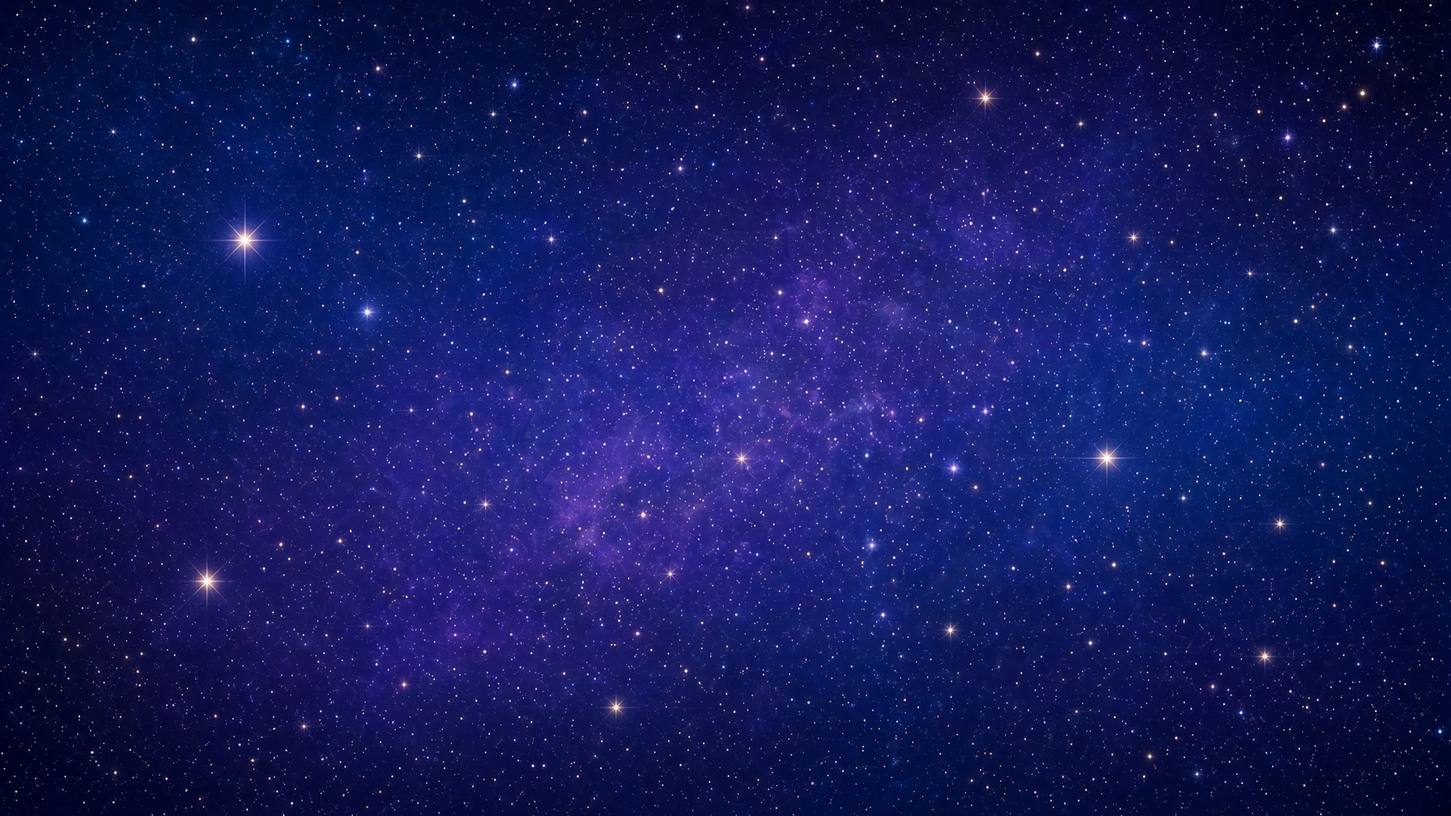
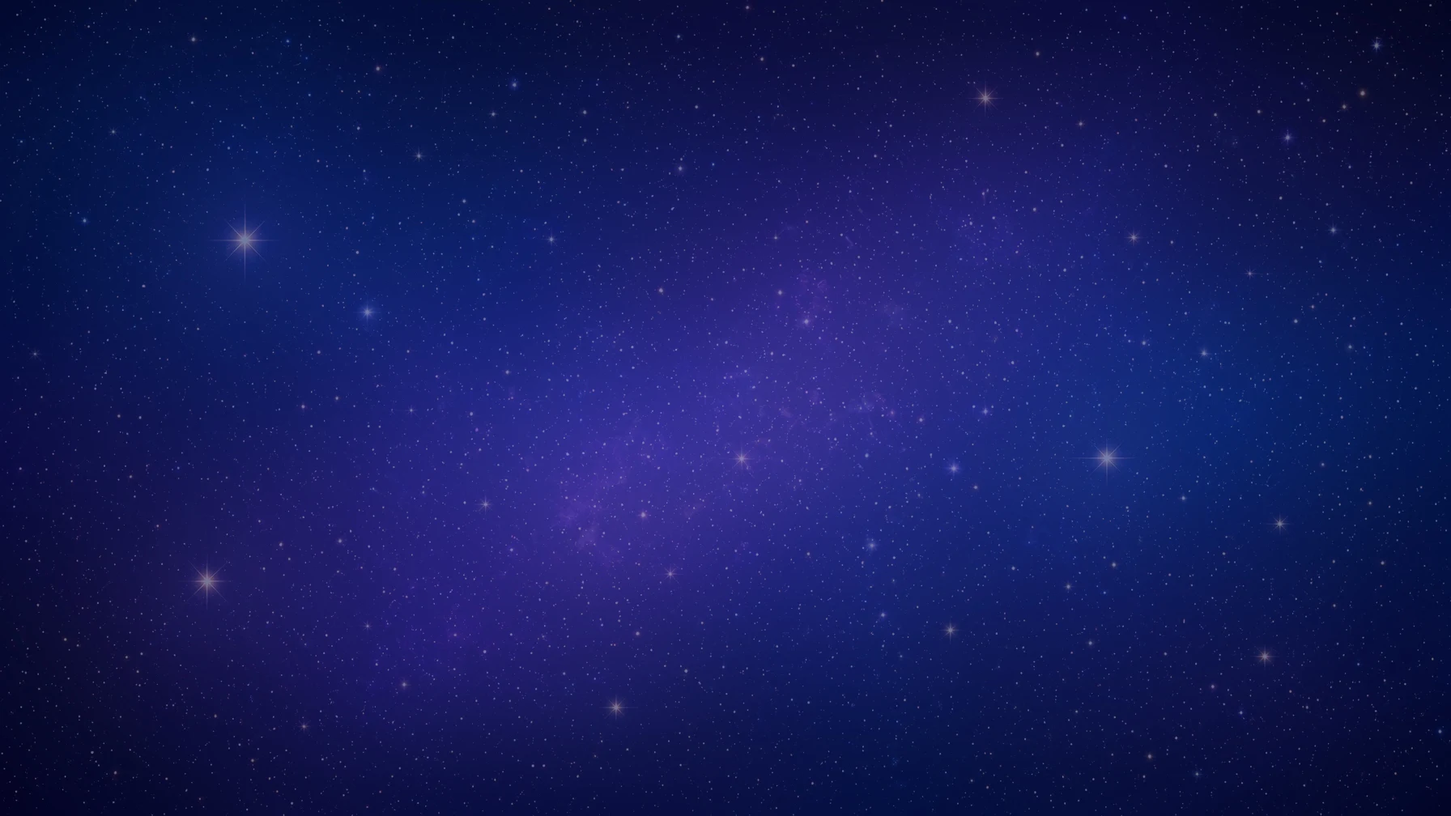
Update selection buttons, free-order touch controls, star timing and background

diff --git a/Engine/select-screen.js b/Engine/select-screen.js
@@ -3,38 +3,41 @@ export function createSelectScreen(parent,api){
  const view=document.createElement('section');view.id='palaceSelection';view.hidden=true;view.style.cssText='position:absolute;inset:0;background:#05050d;z-index:2';parent.appendChild(view);
  const canvas=document.createElement('canvas');canvas.style.cssText='position:absolute;inset:0;width:100%;height:100%;z-index:1;pointer-events:none';view.appendChild(canvas);const context=canvas.getContext('2d');
  const controls=document.createElement('div');controls.style.cssText='position:absolute;width:1280px;height:720px;transform-origin:top left;z-index:2';view.appendChild(controls);
- const phases=['p1','p2','p1hardware','p2hardware','p1command','p2command','stage'],hardwareValues=['snes','3do','saturn'],commandValues=['normal','auto'];
- let data,assets,stage3D,phase='p1',targetMode='vs',choices=['SailorVenus','SailorVenus'],stage='training',cursor=16,hardware=['snes','snes'],command=['normal','normal'],confirmed=new Set(),ticks=0,lastTime;
- const stageReady=(api.createStage?Promise.resolve({createSelectStage:api.createStage}):import('../Stage/Select/select-stage.js?v=select3d4')).then(async module=>{const candidate=module.createSelectStage(view);if(!candidate)return;await candidate.ready;stage3D=candidate}).catch(error=>console.error('Selection 3D stage',error));
- async function loadEntries(value){if(value.file){const image=new Image();image.src=assetUrl('./'+value.file);await image.decode();return {...value,image}}const result=Array.isArray(value)?[]:{};for(const key of Object.keys(value))result[key]=await loadEntries(value[key]);return result}
- const ready=Promise.all(['Data/Select/select-screen.json','Data/Select/selection-assets.json'].map(path=>fetch(assetUrl('./'+path+'?v=selection2')).then(response=>{if(!response.ok)throw Error('Selection data '+path);return response.json()}))).then(async ([config,manifest])=>{data={...config,background:await loadEntries(config.background)};assets=await loadEntries(manifest);await stageReady;render()});
+ const hardwareValues=['3do','snes','saturn'],commandValues=['normal','auto'];
+ let data,assets,stage3D,phase='p1',targetMode='vs',choices=['SailorVenus','SailorVenus'],stage='training',cursor=16,hardware=['3do','3do'],command=['normal','normal'],confirmed=new Set(),ticks=0,lastTime;
+ const stageReady=(api.createStage?Promise.resolve({createSelectStage:api.createStage}):import('../Stage/Select/select-stage.js?v=selection5')).then(async module=>{const candidate=module.createSelectStage(view);if(!candidate)return;await candidate.ready;stage3D=candidate}).catch(error=>console.error('Selection 3D stage',error));
+ async function loadEntries(value){if(value.file){const image=new Image();image.src=assetUrl('./'+value.file+'?v=selection5');await image.decode();return {...value,image}}const result=Array.isArray(value)?[]:{};for(const key of Object.keys(value))result[key]=await loadEntries(value[key]);return result}
+ const ready=Promise.all(['Data/Select/select-screen.json','Data/Select/selection-assets.json'].map(path=>fetch(assetUrl('./'+path+'?v=selection5')).then(response=>{if(!response.ok)throw Error('Selection data '+path);return response.json()}))).then(async ([config,manifest])=>{data={...config,background:await loadEntries(config.background)};assets=await loadEntries(manifest);await stageReady;render()});
  function player(){return phase.startsWith('p2')?1:0}
- function frame(key){return confirmed.has(key)?1:phase===key?Math.floor(ticks/4)%2:0}
- function sprite(entry,offsetX=0,offsetY=0){if(entry)context.drawImage(entry.image,offsetX+entry.x,offsetY+entry.y,entry.w,entry.h)}
+ function selectPlayer(target){phase='p'+(target+1);cursor=data.cells.findIndex(cell=>cell.id===choices[target]&&cell.available);render()}
  function discPosition(entry){if(!stage3D)return entry;const focal=360/Math.tan(Math.PI/12),scale=Math.sqrt((8*8-1.4*1.4)/(7.2*7.2-1.4*1.4)),previousY=360-.2/8*focal,nextY=360-.15/7.2*focal;return {x:640+(entry.x-640)*scale,y:nextY+(entry.y-previousY)*scale,w:entry.w*scale,h:entry.h*scale}}
  function draw(){if(!assets||view.hidden)return;canvas.width=Math.round(innerWidth*devicePixelRatio);canvas.height=Math.round(innerHeight*devicePixelRatio);const fit=Math.min(innerWidth/1280,innerHeight/720);context.setTransform(devicePixelRatio,0,0,devicePixelRatio,0,0);context.clearRect(0,0,innerWidth,innerHeight);if(!stage3D){context.fillStyle='#05050d';context.fillRect(0,0,innerWidth,innerHeight)}context.translate((innerWidth-1280*fit)/2,(innerHeight-720*fit)/2);context.scale(fit,fit);
   for(const key of stage3D?['2200,0']:['2000,0','2001,0','2200,0']){const layer=data.background.find(entry=>entry.key===key);if(layer)context.drawImage(layer.image,640-layer.axisX,-layer.axisY)}
   for(const [identifier,entry] of Object.entries(assets.characters)){if(entry.disc){context.save();context.globalAlpha=data.cells.some(cell=>cell.id===identifier&&cell.available)?1:.4;const position=discPosition(entry.disc);context.drawImage(entry.disc.image,position.x,position.y,position.w,position.h);context.restore()}}
   stage3D?.drawSurfaceGlares(context);
-  for(const target of [0,1]){const entry=assets.characters[choices[target]],position=data.settings['p'+(target+1)+'.face.offset'].split(',').map(Number),anchor=position[0];sprite(entry.portrait,anchor-640,position[1]);sprite(entry.name,anchor-640);
-   for(const [kind,value,column] of [['hardware',hardware[target],0],['command',command[target],1]]){const frames=assets.modes[value],icon=frames[frame('p'+(target+1)+kind)],width=Math.max(...frames.map(item=>item.w))*.75;context.drawImage(icon.image,anchor-125+column*135+(width-icon.w*.75)/2,525,icon.w*.75,icon.h*.75)}
-  }
-  const title=assets.stages[({training:'Training',moon:'MPalace',mercury:'Library',mars:'Shrine',pluto:'SDoor',swatheshia:'SThrone'}[stage])];if(phase==='stage'&&title)sprite(title[String(frame('stage'))]||title['0']);
+  for(const target of [0,1]){const entry=assets.characters[choices[target]],position=data.settings['p'+(target+1)+'.face.offset'].split(',').map(Number),anchor=position[0];for(const kind of ['portrait','name']){const item=entry[kind];if(item)context.drawImage(item.image,anchor-640+item.x,item.y+(kind==='portrait'?position[1]:0),item.w,item.h)}}
+  const title=assets.stages[({training:'Training',moon:'MPalace',mercury:'Library',mars:'Shrine',pluto:'SDoor',swatheshia:'SThrone'}[stage])];if(phase==='stage'&&title){const item=title[String(Math.floor(ticks/4)%2)]||title['0'];context.drawImage(item.image,item.x,item.y,item.w,item.h)}
  }
  function button(label,handler,style=''){const element=document.createElement('button');element.type='button';element.textContent=label;element.style.cssText='position:absolute;border:1px solid #e4ca81;background:#0a163be8;color:#fff;border-radius:8px;font:18px system-ui;padding:6px;'+style;element.addEventListener('click',handler);controls.appendChild(element);return element}
+ function artworkButton(key,label,handler,left,top){const entry=assets.buttons[key],width=entry.w*.75,height=entry.h*.75;const element=button('',handler,'left:'+(left-width/2)+'px;top:'+top+'px;width:'+width+'px;height:'+height+'px;background:transparent;border:0;padding:0;touch-action:manipulation;transition:transform 80ms');element.setAttribute('aria-label',label);const image=document.createElement('img');image.src=entry.image.src;image.alt=label;image.draggable=false;image.style.cssText='width:100%;height:100%;pointer-events:none';element.appendChild(image);element.addEventListener('pointerdown',event=>{if(element.disabled)return;element.style.transform='scale(.9)';element.setPointerCapture(event.pointerId)});for(const event of ['pointerup','pointercancel','lostpointercapture','blur'])element.addEventListener(event,()=>{element.style.transform='scale(1)'});return element}
  function resize(){const fit=Math.min(innerWidth/1280,innerHeight/720);Object.assign(controls.style,{left:(innerWidth-1280*fit)/2+'px',top:(innerHeight-720*fit)/2+'px',transform:'scale('+fit+')'});draw()}
- function confirm(){if(!assets)return;if(phase==='p1'||phase==='p2'){const cell=data.cells[cursor];if(!cell?.available)return;choices[player()]=cell.id}confirmed.add(phase);if(phase==='stage'){render();api.confirm(targetMode,{players:[...choices],stage,hardware:[...hardware],command:[...command]});return}phase=phases[phases.indexOf(phase)+1];cursor=data.cells.findIndex(cell=>cell.id===choices[player()]&&cell.available);ticks=0;render()}
- function back(){const index=phases.indexOf(phase);if(!index){hide();api.back();return}phase=phases[index-1];for(const key of phases.slice(index-1))confirmed.delete(key);cursor=data.cells.findIndex(cell=>cell.id===choices[player()]&&cell.available);ticks=0;render()}
- function choose(value){if(phase.endsWith('hardware'))hardware[player()]=value;else if(phase.endsWith('command'))command[player()]=value;else if(phase==='stage')stage=value;else{cursor=value;choices[player()]=data.cells[value].id}ticks=0;render()}
- function render(){if(view.hidden)return;controls.replaceChildren();if(!assets){button('Loading…',()=>{},'left:520px;top:320px;width:240px');return}const title=document.createElement('h2');title.textContent=targetMode.toUpperCase()+' · '+phase.toUpperCase().replace(/(HARDWARE|COMMAND)/,' $1');title.style.cssText='position:absolute;top:75px;left:400px;width:480px;margin:0;text-align:center;color:#fff;font:24px Georgia';controls.appendChild(title);
-  if(phase==='p1'||phase==='p2'){for(const [index,cell] of data.cells.entries()){const sourceDisc=assets.characters[cell.id]?.disc;if(!sourceDisc)continue;const disc=discPosition(sourceDisc);const element=button('',()=>choose(index),'left:'+disc.x+'px;top:'+disc.y+'px;width:'+disc.w+'px;height:'+disc.h+'px;background:transparent;padding:0');element.dataset.character=cell.id;element.disabled=!cell.available;element.title=cell.id+(cell.available?'':' · 未開放');element.style.border=index===cursor?'2px solid #fff6a3':'none'}}
-  else if(phase.endsWith('hardware')||phase.endsWith('command')){const values=phase.endsWith('hardware')?hardwareValues:commandValues;values.forEach((value,index)=>{const element=button(value.toUpperCase(),()=>choose(value),'left:'+(455+index*125)+'px;top:575px;width:120px');element.dataset.mode=value})}
-  else data.stages.forEach((entry,index)=>{const element=button(entry.name,()=>choose(entry.id),'left:480px;top:'+(180+index*57)+'px;width:320px;height:46px');element.dataset.stage=entry.id;element.disabled=!entry.available});
-  button(phase==='stage'?'Start Fight':'Confirm',confirm,'left:660px;top:625px;width:130px').id='confirmSelection';button('Back',back,'left:495px;top:625px;width:130px').id='backSelection';resize();
+ function next(){if(targetMode!=='training'&&confirmed.size<2)return;phase='stage';ticks=0;render()}
+ function touchConfirm(target){if(confirmed.has(target))confirmed.delete(target);else confirmed.add(target);render()}
+ function confirm(){if(!assets)return;if(phase==='stage'){api.confirm(targetMode,{players:[...choices],stage,hardware:[...hardware],command:[...command]});return}const target=player();if(phase.endsWith('hardware'))phase='p'+(target+1)+'command';else if(phase.endsWith('command')){if(targetMode==='training'){next();return}confirmed.add(target);if(confirmed.size===2){next();return}selectPlayer(1-target);return}else phase='p'+(target+1)+'hardware';ticks=0;render()}
+ function back(){if(phase==='stage'){confirmed.delete(targetMode==='training'?0:1);phase=targetMode==='training'?'p1command':'p2command'}else if(phase.endsWith('command'))phase='p'+(player()+1)+'hardware';else if(phase.endsWith('hardware'))phase='p'+(player()+1);else if(player()===1){confirmed.delete(0);phase='p1command'}else{hide();api.back();return}ticks=0;render()}
+ function choose(value,target=player(),kind){if(confirmed.has(target)&&phase!=='stage')return;if(kind==='hardware'||(!kind&&phase.endsWith('hardware')))hardware[target]=value;else if(kind==='command'||(!kind&&phase.endsWith('command')))command[target]=value;else if(phase==='stage')stage=value;else{if(!data.cells[value]?.available)return;cursor=value;choices[target]=data.cells[value].id}ticks=0;render()}
+ function cycle(target,kind){const values=kind==='hardware'?hardwareValues:commandValues,current=kind==='hardware'?hardware[target]:command[target];choose(values[(values.indexOf(current)+1)%values.length],target,kind)}
+ function render(){if(view.hidden)return;controls.replaceChildren();if(!assets){button('Loading…',()=>{},'left:520px;top:320px;width:240px');return}
+  if(phase!=='stage'){
+   for(const target of targetMode==='training'?[0]:[0,1]){const anchor=Number(data.settings['p'+(target+1)+'.face.offset'].split(',')[0]);const selector=button('P'+(target+1),()=>selectPlayer(target),'left:'+(anchor-25)+'px;top:95px;width:50px');selector.dataset.player=String(target);selector.style.opacity=player()===target?'1':'.55';for(const [kind,key,column] of [['hardware',hardware[target],0],['command',command[target],1]]){const element=artworkButton(key,'P'+(target+1)+' '+kind,()=>cycle(target,kind),anchor-110+column*220,525);element.id=kind+'Selection'+target;element.disabled=confirmed.has(target);element.style.filter=confirmed.has(target)?'grayscale(1)':phase==='p'+(target+1)+kind?'drop-shadow(0 0 8px white)':'none'}const element=artworkButton(targetMode==='training'?'next':'confirm','P'+(target+1)+' '+(targetMode==='training'?'Next':'Confirm'),()=>targetMode==='training'?next():touchConfirm(target),anchor,595);element.id='confirmSelection'+target;element.style.filter=confirmed.has(target)?'grayscale(1)':'none';element.setAttribute('aria-pressed',String(confirmed.has(target)))}
+   for(const [index,cell] of data.cells.entries()){const sourceDisc=assets.characters[cell.id]?.disc;if(!sourceDisc)continue;const disc=discPosition(sourceDisc);const element=button('',()=>choose(index,player(),'character'),'left:'+disc.x+'px;top:'+disc.y+'px;width:'+disc.w+'px;height:'+disc.h+'px;background:transparent;padding:0');element.dataset.character=cell.id;element.disabled=!cell.available||confirmed.has(player());element.title=cell.id+(cell.available?'':' · 未開放');element.style.border=index===cursor?'2px solid #fff6a3':'none'}
+   if(targetMode!=='training'){const element=artworkButton('next','Next',next,640,625);element.id='nextSelection';element.disabled=confirmed.size<2;element.style.opacity=element.disabled?'.45':'1'}
+  }else{data.stages.forEach((entry,index)=>{const element=button(entry.name,()=>choose(entry.id),'left:480px;top:'+(180+index*57)+'px;width:320px;height:46px');element.dataset.stage=entry.id;element.disabled=!entry.available});artworkButton('next','Start Fight',confirm,710,610).id='startSelection'}
+  button('Back',back,'left:490px;top:665px;width:100px').id='backSelection';resize();
  }
- function show(mode){targetMode=mode;phase='p1';confirmed.clear();hardware=['snes','snes'];command=['normal','normal'];choices=['SailorVenus','SailorVenus'];stage='training';cursor=data?.cells.findIndex(entry=>entry.available)??16;ticks=0;lastTime=undefined;view.hidden=false;stage3D?.setVisible(true);render()}
+ function show(mode){targetMode=mode;phase='p1';confirmed.clear();hardware=['3do','3do'];command=['normal','normal'];choices=['SailorVenus','SailorVenus'];stage='training';cursor=data?.cells.findIndex(entry=>entry.available)??16;ticks=0;lastTime=undefined;view.hidden=false;stage3D?.setVisible(true);render()}
  function hide(){view.hidden=true;lastTime=undefined;stage3D?.setVisible(false)}
- function handleKey(event){if(view.hidden)return false;if(event.code==='Escape'){if(!event.repeat)back();return true}if(['Enter','KeyZ','Numpad0'].includes(event.code)){if(!event.repeat)confirm();return true}if(['ArrowLeft','ArrowRight','ArrowUp','ArrowDown','Numpad4','Numpad6','Numpad8','Numpad5'].includes(event.code)){if(assets){const direction=['ArrowLeft','ArrowUp','Numpad4','Numpad8'].includes(event.code)?-1:1,values=phase==='stage'?data.stages.filter(entry=>entry.available).map(entry=>entry.id):phase.endsWith('hardware')?hardwareValues:phase.endsWith('command')?commandValues:data.cells.map((entry,index)=>entry.available?index:-1).filter(index=>index>=0),current=phase==='stage'?stage:phase.endsWith('hardware')?hardware[player()]:phase.endsWith('command')?command[player()]:cursor;choose(values[(values.indexOf(current)+direction+values.length)%values.length])}return true}return false}
+ function handleKey(event){if(view.hidden)return false;if(['Escape','KeyX','KeyS','Numpad2','NumpadDecimal'].includes(event.code)){if(!event.repeat)back();return true}if(['Enter','KeyZ','KeyA','Numpad1','Numpad0'].includes(event.code)){if(!event.repeat)confirm();return true}if(['ArrowLeft','ArrowRight','ArrowUp','ArrowDown','Numpad4','Numpad6','Numpad8','Numpad5'].includes(event.code)){if(assets){const modePhase=phase.endsWith('hardware')||phase.endsWith('command');if(modePhase&&!['ArrowUp','ArrowDown','Numpad8','Numpad5'].includes(event.code))return true;const direction=['ArrowLeft','ArrowUp','Numpad4','Numpad8'].includes(event.code)?-1:1,values=phase==='stage'?data.stages.filter(entry=>entry.available).map(entry=>entry.id):phase.endsWith('hardware')?hardwareValues:phase.endsWith('command')?commandValues:data.cells.map((entry,index)=>entry.available?index:-1).filter(index=>index>=0),current=phase==='stage'?stage:phase.endsWith('hardware')?hardware[player()]:phase.endsWith('command')?command[player()]:cursor;choose(values[(values.indexOf(current)+direction+values.length)%values.length])}return true}return false}
  function animate(time){if(!view.hidden){const dt=lastTime===undefined?0:Math.min((time-lastTime)/1000,.05);ticks+=dt*60;lastTime=time;stage3D?.setVisible(true);stage3D?.render(dt);draw()}requestAnimationFrame(animate)}requestAnimationFrame(animate);window.addEventListener('resize',resize);
- return {ready,show,hide,handleKey,draw,snapshot:()=>({phase,mode:targetMode,players:[...choices],hardware:[...hardware],command:[...command],stage,visible:!view.hidden,effects:stage3D?.snapshot()})};
+ return {ready,show,hide,handleKey,draw,snapshot:()=>({phase,mode:targetMode,players:[...choices],hardware:[...hardware],command:[...command],confirmed:[...confirmed],stage,visible:!view.hidden,effects:stage3D?.snapshot()})};
 }

diff --git a/Stage/Select/select-stage.js b/Stage/Select/select-stage.js
@@ -1,7 +1,7 @@
 import * as THREE from 'three';
 import {GLTFLoader} from 'three/addons/loaders/GLTFLoader.js';
 import {assetUrl} from '../../Engine/asset-paths.js?v=02362';
-import {effectPulse} from './select-effects-timing.js?v=select3d4';
+import {effectPulse} from './select-effects-timing.js?v=selection5';
 
 export function createSelectStage(parent){
  const renderer=new THREE.WebGLRenderer({antialias:true,powerPreference:'low-power'});renderer.setPixelRatio(Math.min(devicePixelRatio,1.5));renderer.outputColorSpace=THREE.SRGBColorSpace;renderer.domElement.id='selectStage3D';renderer.domElement.style.cssText='position:absolute;pointer-events:none';parent.appendChild(renderer.domElement);
@@ -25,7 +25,7 @@ export function createSelectStage(parent){
   const haloMaterial=new THREE.ShaderMaterial({uniforms:material.uniforms,vertexShader:material.vertexShader.replace('(1.0+(1.0-pointKind)*impact*1.5)','(1.0+impact*2.0)').replace('gl_PointSize=pointSize','gl_PointSize=2.4*pointSize'),fragmentShader:'varying float brightness;varying float impactLevel;void main(){float radius=length(gl_PointCoord-0.5);float halo=exp(-radius*radius*22.0)*(1.0-smoothstep(0.35,0.50,radius));gl_FragColor=vec4(vec3(0.48,0.83,1.0),halo*brightness*0.32*(1.0+impactLevel*1.6));}',transparent:true,blending:THREE.AdditiveBlending,depthWrite:false,toneMapped:false});particleHalos=new THREE.Points(geometry,haloMaterial);particleHalos.frustumCulled=false;particleHalos.name='SelectionAirborneLightHalos';particleHalos.renderOrder=6;particles.renderOrder=7;scene.add(particleHalos);
  }
  function resize(){if(!camera)return;const fit=Math.min(innerWidth/1280,innerHeight/720),width=1280*fit,height=720*fit;renderer.setSize(width,height,false);Object.assign(renderer.domElement.style,{width:width+'px',height:height+'px',left:(innerWidth-width)/2+'px',top:(innerHeight-height)/2+'px'});camera.aspect=width/height;camera.updateProjectionMatrix();if(particles)particles.material.uniforms.viewportScale.value=fit}
- const ready=Promise.all([new THREE.TextureLoader().loadAsync(assetUrl('./Stage/Select/background.webp?v=select3d4')),fetch(assetUrl('./Stage/Select/select-stage.json?v=select3d4')).then(response=>{if(!response.ok)throw Error('Select stage settings');return response.json()}),fetch(assetUrl('./Stage/Select/Select.glb.gz?v=select3d4')).then(response=>{if(!response.ok)throw Error('Select stage model');return new Response(response.body.pipeThrough(new DecompressionStream('gzip'))).arrayBuffer()})]).then(async ([background,config,buffer])=>{background.colorSpace=THREE.SRGBColorSpace;scene.background=background;settings=config;camera=new THREE.PerspectiveCamera(config.fov,16/9,.01,1000);camera.position.fromArray(config.cameraPosition);const model=await new GLTFLoader().parseAsync(buffer,'./');scene.add(model.scene);sphere=model.scene.getObjectByName(config.target);if(!sphere)model.scene.traverse(node=>{if(node.userData.name===config.target)sphere=node});if(!sphere)throw Error('Selection Sphere.004 missing');model.scene.traverse(node=>{if(!node.isMesh)return;for(const material of Array.isArray(node.material)?node.material:[node.material]){if(/^sky/i.test(node.name))material.depthWrite=false;if(node===sphere)material.side=THREE.FrontSide}});mixer=new THREE.AnimationMixer(model.scene);for(const clip of model.animations)mixer.clipAction(clip).play();addEffects();resize();render(0)});
+ const ready=Promise.all([new THREE.TextureLoader().loadAsync(assetUrl('./Stage/Select/background.webp?v=selection5')),fetch(assetUrl('./Stage/Select/select-stage.json?v=selection5')).then(response=>{if(!response.ok)throw Error('Select stage settings');return response.json()}),fetch(assetUrl('./Stage/Select/Select.glb.gz?v=selection5')).then(response=>{if(!response.ok)throw Error('Select stage model');return new Response(response.body.pipeThrough(new DecompressionStream('gzip'))).arrayBuffer()})]).then(async ([background,config,buffer])=>{background.colorSpace=THREE.SRGBColorSpace;scene.background=background;settings=config;camera=new THREE.PerspectiveCamera(config.fov,16/9,.01,1000);camera.position.fromArray(config.cameraPosition);const model=await new GLTFLoader().parseAsync(buffer,'./');scene.add(model.scene);sphere=model.scene.getObjectByName(config.target);if(!sphere)model.scene.traverse(node=>{if(node.userData.name===config.target)sphere=node});if(!sphere)throw Error('Selection Sphere.004 missing');model.scene.traverse(node=>{if(!node.isMesh)return;for(const material of Array.isArray(node.material)?node.material:[node.material]){if(/^sky/i.test(node.name))material.depthWrite=false;if(node===sphere)material.side=THREE.FrontSide}});mixer=new THREE.AnimationMixer(model.scene);for(const clip of model.animations)mixer.clipAction(clip).play();addEffects();resize();render(0)});
  const center=new THREE.Vector3();
  function render(dt){if(!camera||!mixer)return;accumulator+=Math.max(0,dt);const steps=Math.floor((accumulator+1e-9)*30);if(!steps&&renderedFrames)return;const elapsed=steps/30;accumulator-=elapsed;time+=elapsed;mixer.update(elapsed);sphere.getWorldPosition(center);effects.position.copy(center);for(const mesh of [innerGlow,outerGlow,glare,...rearGlares]){mesh.quaternion.copy(camera.quaternion);mesh.material.uniforms.time.value=time}glare.material.uniforms.beamStrength.value=Array.from({length:7},(_,index)=>effectPulse(Math.round(time*60),index));rearGlares[0].material.uniforms.flareAlpha.value=effectPulse(Math.round(time*60),2,'star');rearGlares[0].position.x=1.12-20*(camera.position.z-center.z+.65)/(360/Math.tan(THREE.MathUtils.degToRad(settings.fov/2)));innerGlow.position.z=.12;innerGlow.renderOrder=10;outerGlow.position.z=.1;outerGlow.renderOrder=11;glare.position.z=-1.6;glare.renderOrder=5;glare.material.depthTest=false;particles.material.uniforms.time.value=time;renderer.render(scene,camera);renderedFrames++}
  function drawSurfaceGlares(context){if(!camera||!sphere)return;for(const flare of surfaceGlares){const point=center.clone().add(new THREE.Vector3(flare.x,flare.y,Math.sqrt(Math.max(0,1.4*1.4-flare.x*flare.x-flare.y*flare.y))+.04)).project(camera),x=(point.x+1)*640,y=(1-point.y)*360,pulse=effectPulse(Math.round(time*60),surfaceGlares.indexOf(flare),'star'),radius=flare.size/2;context.save();context.translate(x,y);context.globalAlpha=pulse;context.globalCompositeOperation='lighter';const halo=context.createRadialGradient(0,0,0,0,0,radius*.95);halo.addColorStop(0,'rgba(255,255,255,0.95)');halo.addColorStop(.12,'rgba(210,245,255,0.65)');halo.addColorStop(1,'rgba(150,225,255,0)');context.fillStyle=halo;context.fillRect(-radius,-radius,radius*2,radius*2);context.beginPath();for(let index=0;index<16;index++){const angle=index*Math.PI/8-Math.PI/2,length=index%2?radius*.055:radius*(index%4===0?1:.65),pointX=Math.cos(angle)*length,pointY=Math.sin(angle)*length;if(!index)context.moveTo(pointX,pointY);else context.lineTo(pointX,pointY)}context.closePath();context.fillStyle='rgba(235,250,255,0.9)';context.fill();context.restore()}}

diff --git a/Data/Logo/logo-intro.js b/Data/Logo/logo-intro.js
@@ -21,7 +21,7 @@ export function createLogoIntro(onFadeIn){
  });
  function finish(){if(finished)return;finished=true;cancelAnimationFrame(animationFrame);document.removeEventListener('visibilitychange',resetFrame);for(const entry of [...config.letters,...config.petals])entry.image.close();overlay.remove();resolveFinished()}
  function render(atTick){if(!config||finished)return;const width=Math.round(innerWidth*devicePixelRatio),height=Math.round(innerHeight*devicePixelRatio);if(overlay.width!==width||overlay.height!==height){overlay.width=width;overlay.height=height}context.setTransform(devicePixelRatio,0,0,devicePixelRatio,0,0);context.fillStyle='white';context.fillRect(0,0,innerWidth,innerHeight);const scale=Math.min(innerWidth/1280,innerHeight/720);context.translate((innerWidth-1280*scale)/2,(innerHeight-720*scale)/2);context.scale(scale,scale);
-  for(const [index,letter] of config.letters.entries()){const pose=logoLetterPose(atTick,index,config);if(!pose.alpha)continue;context.save();context.globalAlpha=pose.alpha;context.drawImage(letter.image,letter.x,letter.y+pose.y,letter.width*letter.scale,letter.height*letter.scale);context.restore()}
+  for(const [index,letter] of config.letters.entries()){const pose=logoLetterPose(atTick,index,config);if(!pose.alpha)continue;context.save();context.globalAlpha=pose.alpha;context.drawImage(letter.image,letter.x+(index===0?20:0),letter.y+pose.y,letter.width*letter.scale,letter.height*letter.scale);context.restore()}
   const frame=config.petalFrames.find(frame=>atTick>=frame.start&&atTick<frame.end);if(frame){const petals=config.petals.find(entry=>entry.item===frame.item);context.drawImage(petals.image,petals.x,petals.y)}
  }
  function resetFrame(){lastFrame=null}

diff --git a/index.html b/index.html
@@ -50,7 +50,7 @@ import {createFightHud} from './Engine/fight-hud-runtime.js?v=02362';
 import {createScoreRuntime} from './Engine/score-runtime.js?v=02362';
 import {createRoundFlow} from './Engine/round-flow-runtime.js?v=02362';
 import {createRoundView} from './Engine/round-flow-view.js?v=02362';
-import {createPalaceMenu} from './Engine/palace-menu.js?v=select3d4';
+import {createPalaceMenu} from './Engine/palace-menu.js?v=selection5';
 const fightHud=createFightHud();fightHud.ready.catch(error=>showRuntimeError(error));
 const timerMode=document.createElement('select');timerMode.id='timerMode';timerMode.title='Training timer';timerMode.innerHTML='<option value="infinite">Timer ∞</option><option value="99">Timer 99</option>';document.querySelector('#inputPanel').appendChild(timerMode);timerMode.addEventListener('change',()=>{fightHud.setMode(timerMode.value);timerMode.blur()});
 for(let seconds=15;seconds<99;seconds++){const option=document.createElement('option');option.value=String(seconds);option.textContent='Timer '+seconds;timerMode.appendChild(option)}

diff --git a/Stage/Select/select-effects-timing.js b/Stage/Select/select-effects-timing.js
@@ -1,9 +1,9 @@
 function randomValue(seed){const value=Math.sin(seed*12.9898+78.233)*43758.5453;return value-Math.floor(value)}
 export function effectPulse(tick,index,kind='beam'){
- const rise=kind==='beam'?6:4,fade=kind==='beam'?36:8;
+ const rise=kind==='beam'?6:8,fade=kind==='beam'?36:16;
  let remaining=Math.max(0,tick)+index*(kind==='beam'?17:7),cycle=0;
- while(true){const hold=kind==='beam'?90+Math.floor(randomValue(index*37+cycle*101)*91):12+Math.floor(randomValue(index*19+cycle*71)*19),duration=rise+fade+hold;
-  if(remaining<duration){if(remaining<rise)return remaining/rise;if(remaining<rise+fade)return 1-(remaining-rise)/fade;return 0}
+ while(true){const hold=90+Math.floor(randomValue(index*37+cycle*101)*91),peak=kind==='beam'?0:60+Math.floor(randomValue(index*19+cycle*71)*31),duration=rise+peak+fade+hold;
+  if(remaining<duration){if(remaining<rise)return remaining/rise;if(remaining<rise+peak)return 1;if(remaining<rise+peak+fade)return 1-(remaining-rise-peak)/fade;return 0}
   remaining-=duration;cycle++;
  }
 }

diff --git a/Engine/palace-menu.js b/Engine/palace-menu.js
@@ -1,7 +1,7 @@
 import {assetUrl} from './asset-paths.js?v=02362';
 import {createTitleStage} from '../Stage/Title/title-stage.js?v=02362-camera2';
-import {createLogoIntro} from '../Data/Logo/logo-intro.js?v=02362';
-import {createSelectScreen} from './select-screen.js?v=select3d4';
+import {createLogoIntro} from '../Data/Logo/logo-intro.js?v=selection5';
+import {createSelectScreen} from './select-screen.js?v=selection5';
 
 export function createPalaceMenu(api){
  const defaults={difficulty:4,timer:'99',master:100,bgm:100,sfx:100};let options={...defaults};try{const saved=JSON.parse(localStorage.getItem('palace-options-v1'));for(const key of Object.keys(defaults))if(saved&&saved[key]!==undefined)options[key]=saved[key]}catch{}

diff --git a/Tools/export_selection_assets.py b/Tools/export_selection_assets.py
@@ -5,7 +5,7 @@ from PIL import Image
 root = Path(__file__).resolve().parents[1]
 source = Path('E:/3D 2022/Select/WEB')
 control = Path('E:/3D 2022/Control Mode/WEB')
-manifest = {'characters': {}, 'modes': {}, 'stages': {}, 'controlExtras': {}}
+manifest = {'characters': {}, 'buttons': {}, 'stages': {}, 'controlExtras': {}}
 
 def export(path, destination):
     image = Image.open(path).convert('RGBA')
@@ -23,8 +23,8 @@ for name in ['Moon', 'CMoon', 'Mercury', 'Mars', 'Jupiter', 'Venus', 'Uranus', '
             entries[kind] = export(path, root / 'Char' / name / 'Select' / (kind+'.webp'))
     manifest['characters'][identifier] = entries
 
-for code, name in [('0930', 'snes'), ('0931', '3do'), ('0932', 'saturn'), ('0935', 'normal'), ('0936', 'auto')]:
-    manifest['modes'][name] = [export(control / (code+str(frame).zfill(2)+'.png'), root / 'Data/Select/Mode' / (name+'-'+str(frame)+'.webp')) for frame in range(2)]
+for filename, name in [('3DO', '3do'), ('SNES', 'snes'), ('SATURN', 'saturn'), ('Nrml', 'normal'), ('Auto', 'auto'), ('Confirm', 'confirm'), ('Next', 'next')]:
+    manifest['buttons'][name] = export(control / (filename+'.png'), root / 'Data/Select/Buttons' / (name+'.webp'))
 
 for path in control.glob('095*.png'):
     code, name = path.stem.split(' ', 1)
@@ -39,4 +39,4 @@ for path in source.glob('*.png'):
     manifest['stages'].setdefault(name, {})[index] = export(path, root / 'Stage' / name / 'Select' / ('title-'+index+'.webp'))
 
 (root / 'Data/Select/selection-assets.json').write_text(json.dumps(manifest, separators=(',', ':')), encoding='utf-8')
-print('Exported', len(manifest['characters']), 'characters,', len(manifest['modes']), 'modes,', len(manifest['stages']), 'stage titles')
+print('Exported', len(manifest['characters']), 'characters,', len(manifest['buttons']), 'buttons,', len(manifest['stages']), 'stage titles')

diff --git a/Tools/export_select_stage.py b/Tools/export_select_stage.py
@@ -43,7 +43,7 @@ glb += struct.pack('<II', len(encoded), 0x4E4F534A)+encoded
 glb += struct.pack('<II', len(rebuilt), 0x004E4942)+rebuilt
 compressed = gzip.compress(glb, compresslevel=9, mtime=0)
 (destination / 'Select.glb.gz').write_bytes(compressed)
-background = Image.open('E:/3D 2022/Select/WEB/grok-image-35e1ec72-6a58-4122-9d1b-2f3af2636043.jpg').convert('RGB')
+background = Image.open('E:/3D 2022/Select/WEB/BG.jpg').convert('RGB')
 background.save(destination / 'background.webp', format='WEBP', quality=88, method=4)
 settings = {'fov': 30, 'localcoord': [1280, 720], 'cameraPosition': [0, 1.6, 7.2], 'cameraBlender': {'name': 'Original IKEMEN Camera', 'location': [0, -7.2, 1.6], 'rotationDegrees': [90, 0, 0]}, 'animationFPS': 30, 'target': 'Sphere.004', 'animations': len(document.get('animations', [])), 'sourceSHA256': hashlib.sha256(original).hexdigest(), 'sourceBytes': len(original), 'downloadBytes': len(compressed), 'textureFormat': 'webp', 'textureMaxSize': 2048}
 settings['background'] = 'Stage/Select/background.webp'

diff --git a/Docs/selection-assets.md b/Docs/selection-assets.md
@@ -2,11 +2,11 @@
 
 Selection uses separate portrait, name and disc artwork from the supplied Select/WEB exports, not character SFF 9000,1. Portraits retain their exported canvas coordinates and are translated to system.def p1.face.offset / p2.face.offset; name artwork is centered on each player anchor. The disc artwork retains its supplied placement on the central globe.
 
-Character images live in Char/<character>/Select; stage titles in Stage/<stage>/Select; shared hardware and command icons in Data/Select/Mode. Transparent margins are cropped with original positions recorded in Data/Select/selection-assets.json. The exporter uses WEBP quality 90 and keeps the original source PNGs unchanged.
+Character images live in Char/<character>/Select; stage titles in Stage/<stage>/Select; new shared buttons in Data/Select/Buttons. The previous 0930-series icons are no longer loaded. Transparent margins are cropped with original positions recorded in Data/Select/selection-assets.json. The exporter uses WEBP quality 90 and keeps the original source PNGs unchanged.
 
-Hardware and command artwork share a 0.75 display scale. Pending icons hold frame 0, the active selection alternates frames 0 and 1 every four 60 Hz ticks, and confirmed icons hold frame 1. Stage titles follow the same rule. Artwork is decoded before selection becomes interactive.
+Buttons share a 0.75 display scale and shrink to 90% while pressed, restoring on release/cancel. Hardware cycles 3DO → SNES → Saturn → 3DO; command cycles Normal → Auto → Normal. Confirm toggles the player's lock and grayscale state; pressing it again unlocks character and mode choices. Touch users may choose character/hardware/command in any order, using P1/P2 selectors to target the character grid. Both VS/Watch players must confirm before Next enables. Training replaces Confirm with Next and only requires P1. Stage titles alternate every four ticks. Artwork is decoded before selection becomes interactive.
 
-Order: P1 character, P2 character, P1 hardware, P2 hardware, P1 command, P2 command, stage. Enter/Z/Numpad0 confirms; direction keys change choices; Escape/Back returns one step and clears later confirmations. Both players' hardware and command choices carry into combat, scoring and subsequent round resets.
+Keyboard order: P1 character → hardware → command, then P2 character → hardware → command in VS/Watch, then stage. Training proceeds from P1 command to stage. A/X (A/Z on the default keyboard; Numpad1/0 for P2) confirms; B/Y (S/X; Numpad2/Decimal) returns one step. Enter/Escape remain aliases. All arrows navigate characters; only up/down changes hardware/command. Both players' hardware and command choices carry into combat, scoring and subsequent round resets.
 
 All supplied character artwork is included, but only Venus and Training are playable until additional fighters and stages are implemented.
 
@@ -14,11 +14,11 @@ The selection background now uses Stage/Select/Select.glb.gz, converted from Sel
 
 The original Blender file is not modified. Rebuild the web model with Tools/export_select_stage.py. The camera preset named Original IKEMEN Camera corresponds to Blender location (0, -7.2, 1.6), XYZ Euler rotation (90, 0, 0) degrees: native glTF position (0, 1.6, 7.2), facing -Z, vertical FOV 30 degrees. This selection model is not given the title model's separate scale/offset transform. Disc artwork and selection hitboxes are resized together for the new camera framing; portrait/name anchors are unchanged.
 
-The 3D animation, glow, beams and particles advance at 30 Hz with unchanged playback duration. Fractional time accumulates between updates rather than slowing animation by dropping elapsed time. Leaving selection stops animation and clears fractional timing. Hardware/command icon logic retains its original four-tick timing.
+The 3D animation, glow, beams and particles advance at 30 Hz with unchanged playback duration. Fractional time accumulates between updates rather than slowing animation by dropping elapsed time. Leaving selection stops animation and clears fractional timing.
 
-Airborne particles have a dedicated soft halo pass sharing their core positions. All particles stop at ground before fading; eight-point star cores retain their size, round cores expand, and all halos expand and intensify. Beam shafts originate behind the sphere center with shorter fading tails. Beams brighten over 6 ticks, fade completely over 36 ticks, then remain invisible for a seeded random 90–180 ticks. Reflection stars brighten over 4 ticks and fade completely over 8 ticks. The upper-right star moves 20 logical screen pixels left. Existing inner/outer sphere glow and other star sizes remain unchanged.
+Airborne particles have a dedicated soft halo pass sharing their core positions. Their landing centers are projected 40–60 logical pixels above the 720-pixel lower viewport edge, independent of depth and responsive scaling. All particles stop before fading; eight-point star cores retain their size, round cores expand, and all halos expand and intensify. Beam shafts originate behind the sphere center with shorter fading tails. Beams brighten over 6 ticks, fade completely over 36 ticks, then remain invisible for a seeded random 90–180 ticks. Reflection stars brighten over 8 ticks, hold full light for a random 60–90 ticks, fade completely over 16 ticks, and hold transparent for a random 90–180 ticks. The upper-right star remains 20 logical screen pixels left. Existing inner/outer sphere glow and other star sizes remain unchanged.
 
-The updated GLB preserves the longer curtain animations and removes its old sky. Stage/Select/background.webp supplies the new starfield, converted from the supplied JPG at quality 88. Animation remains 30 FPS with the original IKEMEN camera.
+The updated GLB preserves the longer curtain animations and removes its old sky. Stage/Select/background.webp supplies the new starfield, converted from Select/WEB/BG.jpg at quality 88. Animation remains 30 FPS with the original IKEMEN camera. The first logo letter T shifts 20 logical pixels right without changing animation timing.
 
 Particle size uses a 2x multiplier in both airborne and landing phases, with an additional deterministic size distribution. One third are round glows and two thirds are slender eight-point stars. Rear glare beams now use narrow, long shafts with independent intensity and a visible +/-0.24-radian angular sweep. Three fixed reflection-star positions only pulse in brightness: upper-left surface, upper-right behind the sphere, lower-right surface. The two surface stars are composited after the separate character disc artwork and before large portraits, so they remain visible without covering player portraits. Inner/outer glow parameters remain unchanged. Effect parameters are in Stage/Select/select-stage.js.
 
